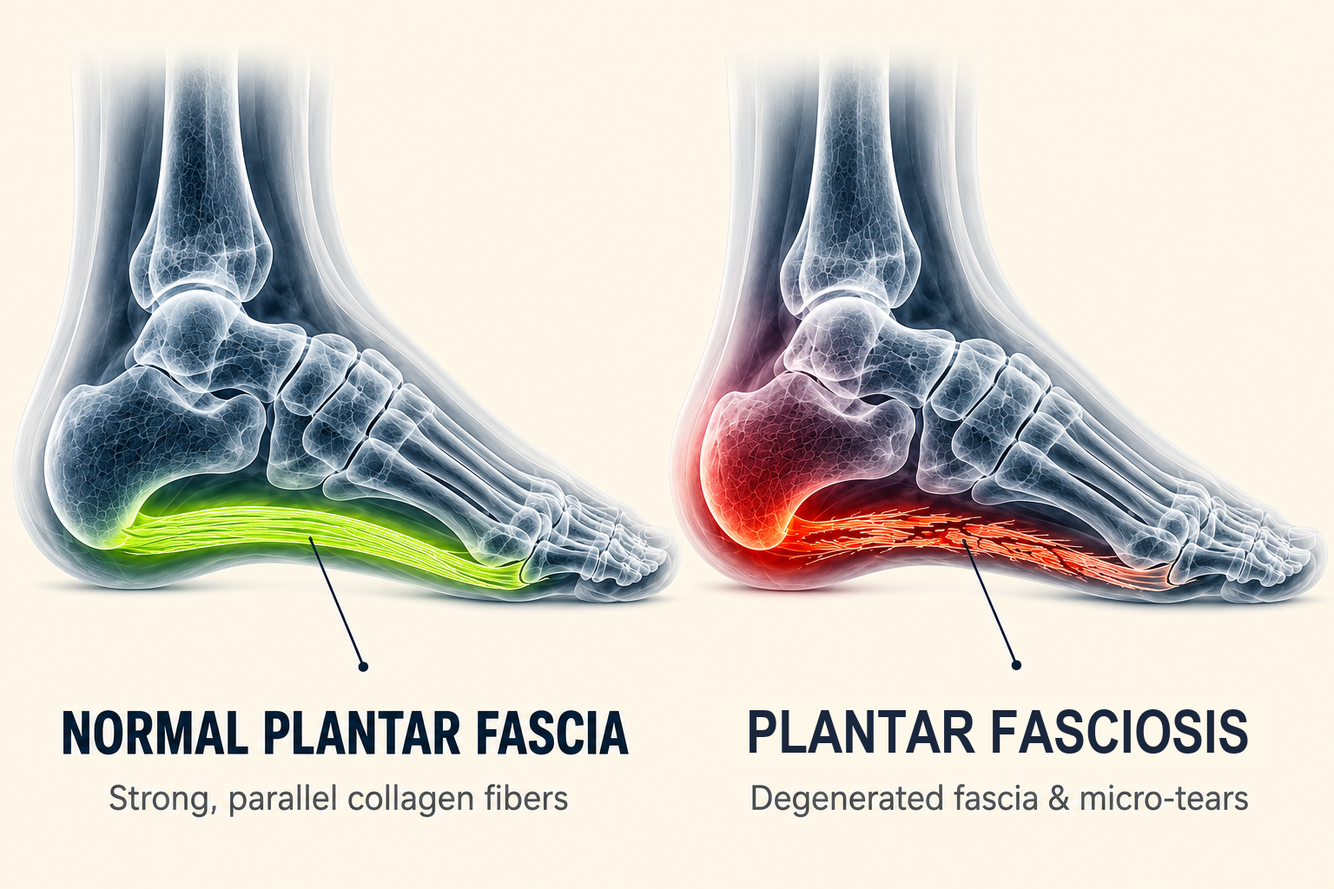
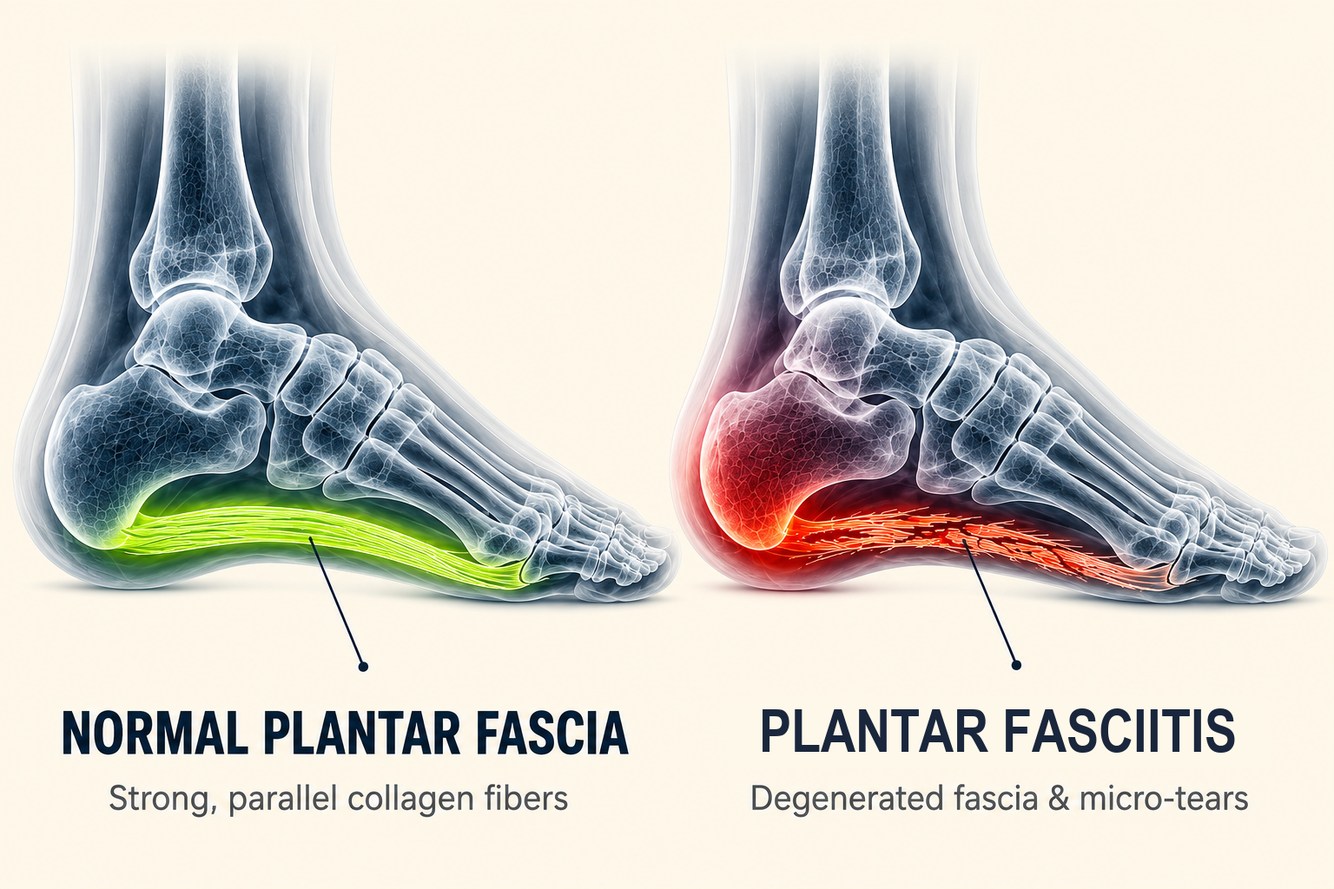
Affirm plantar fasciitis naming; wear-down insight kept as inside-story

Changed region(s): [[0.5625, 0.7812, 0.9375, 0.8438]]

diff --git a/index.html b/index.html
@@ -14848,7 +14848,7 @@ html body #nv-dr-intro .nv-dr-collagen-band .nv-dr-inline-figure, html body #nv-
             since.
           </p></div><div class="nv-dr-body" id="cc-id-AmnnSJP0mRJk"><div class="nv-dr-intro-copy-block" id="cc-id-TrUfjXdn1l7B"><div class="nv-dr-copy" id="cc-id-oTnw80kfMrIX" spellcheck="false"><p>Dear friend with aching heels - if you're a woman past 50 and you're reading this because you dread that first step out of bed.</p><p>If your heel feels like broken glass the second your foot hits the floor. If you hate that first-step wince - and the confidence it stole from you.</p><p>If you feel "modern medicine" doesn't really care about helping you. If you hope another cortisone shot isn't your only option.</p><p>If you're skeptical of orthotics that cost hundreds and still don't fix it, or tingling creams that quit in an hour.</p><p>That's for you - yes, you're in the right place.</p></div></div><div class="nv-dr-footer-band nv-dr-collagen-band" id="cc-id-jZnOq8dXOKjL"><div class="nv-dr-footer-band-inner" id="cc-id-oJRcnmqNkS62"><h3 class="nv-dr-emphasis" id="cc-id-uLxbVdTJbJlt" spellcheck="false">
                 What the Hell Happened to My Feet? It Came On So Fast
-              </h3><div class="nv-dr-text-img nv-dr-text-img--reverse" id="cc-id-MOjG79z8QDbd"><div class="nv-dr-copy" id="cc-id-oJLkDfDEPJca"><p>Did your feet feel fine in your 40s - then almost overnight after 50, the heel pain started?</p><p>The stab with your first step. The nightstand grab. The shoes beside the bed so you never walk barefoot.</p><p>It's not your fault, and it's not "just aging."</p><p>After 50, your body loses the collagen that keeps tissue springy - and the band under your foot dries out.</p><p>Your body answers with inflammation - and the band slowly frays into tiny tears that never get to finish healing.</p><p>Doctors have a newer name for it: not fasciitis, but fasciosis - a band wearing down faster than it can repair.</p><p><b>It's not three different problems. It's one - and it started when that band began to dry out.</b></p></div><figure class="nv-dr-inline-figure" aria-label="Collagen starvation skin comparison" id="cc-id-jgCbfFdDg7Lw"><figure class="nv-dr-video-figure" aria-label="How the roller reaches the starving layer" id="cc-id-f5wbsM0H0sJK"><img class="nv-dr-video fk-disable-lazy" src="mini-adv-assets/3.png" id="cc-id-h05C5xpjhjaX" style="width: 100%; height: auto;"></figure></figure></div></div></div><div class="nv-dr-added-band nv-dr-surface-band" id="cc-id-qDdnLOLDG1N0"><h3 class="nv-dr-emphasis" id="cc-id-zoeuRUHyW2lN" spellcheck="false">
+              </h3><div class="nv-dr-text-img nv-dr-text-img--reverse" id="cc-id-MOjG79z8QDbd"><div class="nv-dr-copy" id="cc-id-oJLkDfDEPJca"><p>Did your feet feel fine in your 40s - then almost overnight after 50, the heel pain started?</p><p>The stab with your first step. The nightstand grab. The shoes beside the bed so you never walk barefoot.</p><p>It's not your fault, and it's not "just aging."</p><p>After 50, your body loses the collagen that keeps tissue springy - and the band under your foot dries out.</p><p>Your body answers with inflammation - and the band slowly frays into tiny tears that never get to finish healing.</p><p>Doctors call it plantar fasciitis - but here's what's really happening inside: a band wearing down faster than it can repair.</p><p><b>It's not three different problems. It's one - and it started when that band began to dry out.</b></p></div><figure class="nv-dr-inline-figure" aria-label="Collagen starvation skin comparison" id="cc-id-jgCbfFdDg7Lw"><figure class="nv-dr-video-figure" aria-label="How the roller reaches the starving layer" id="cc-id-f5wbsM0H0sJK"><img class="nv-dr-video fk-disable-lazy" src="mini-adv-assets/3.png" id="cc-id-h05C5xpjhjaX" style="width: 100%; height: auto;"></figure></figure></div></div></div><div class="nv-dr-added-band nv-dr-surface-band" id="cc-id-qDdnLOLDG1N0"><h3 class="nv-dr-emphasis" id="cc-id-zoeuRUHyW2lN" spellcheck="false">
               Cortisone Shots, Arch Supports, Compression Socks - Why None of Them Ever Worked for Your Feet
             </h3><div class="nv-dr-text-img nv-dr-text-img--reverse" id="cc-id-r4UL7nXbFBpK"><figure class="nv-dr-video-figure" aria-label="How the roller reaches the starving layer" id="cc-id-Mr5Y9Lj4tBLM"><img class="fk-disable-lazy nv-dr-inline-img" src="mini-adv-assets/7.png" alt="Shots, supports, and socks cannot reach the dried-out band under the foot" id="cc-id-cp7sTisKf0Tn" style="width: 100%; height: auto; border-radius: 10px;"></figure><div class="nv-dr-copy" id="cc-id-pjpHYFf8Bsio" spellcheck="false"><p>You dreaded that needle for weeks. The relief lasted about as long as the drive home.</p><p>Built to calm the pain for an afternoon - never built to reach the band underneath.</p><p>Passive arch supports - even the $400 custom kind - only prop your arch from the outside.</p><p>Take them off, and the band underneath is exactly as dry and frayed as before.</p><p>Insoles and compression socks pile up in a drawer. One never fit, one pinched, one your toes couldn't even get into.</p><p>Padding over a stone doesn't remove the stone - it's still there, waiting for your next step.</p><p><b>None of them reach the band under your foot with real botanical support. And none touch the real cause - the inflammation that started when that band began to dry out.</b></p></div></div></div><div class="nv-dr-added-band nv-dr-product-band" id="cc-id-9r6CM5O5BJV6"><h3 class="nv-dr-emphasis" id="cc-id-3TDB3Cqtk3KC" spellcheck="false">
               So We Built One Simple Balm To Calm Persistent Foot Stress
@@ -15042,7 +15042,7 @@ html body #nv-dr-intro .nv-dr-collagen-band .nv-dr-inline-figure, html body #nv-
 
 <br id="cc-id-DHGVWLlYwOEX"></div></div></div></div><div class="fk-row" id="cc-id-WVuzN0XMHcS4"><div class="fk-col col" align="center" id="cc-id-G4grJAVrbNHL"></div></div></div></div></div><div data-box="true" style="padding-right: 10px; padding-bottom: 12px; padding-left: 10px; width: 100%;" id="cc-id-9qhJx9Ho3vub"><div data-box="true" data-secondsdelay="" id="cc-id-7FYgqw6AQf4S" class="contained"><div data-box="true" data-secondsdelay="" id="cc-id-wI9Gu4hW8Z4s" class="contained"><div class="nv-faq" id="cc-id-gJKlE1fHBxjX"><h2 class="nv-faq__heading" id="cc-id-u6NxWQBmapWT">
     Frequently Asked Questions
-  </h2><div class="nv-faq__list" id="cc-id-OfV9TCbDmLLe"><div class="nv-faq__item"><div class="nv-faq__item-inner"><div class="nv-faq__question-row"><h3 class="nv-faq__question"><span class="font-17222EFF cc-rte-styled rte-styled-text">How soon will I feel it?</span></h3><div><svg class="nv-faq__chevron" xmlns="http://www.w3.org/2000/svg" width="24" height="24" viewBox="0 0 24 25" fill="none"><path d="M12.0021 8.58771C11.8705 8.58694 11.7401 8.61217 11.6182 8.66193C11.4964 8.7117 11.3856 8.78502 11.2921 8.87771L5.29214 14.8777C5.10383 15.066 4.99805 15.3214 4.99805 15.5877C4.99805 15.854 5.10383 16.1094 5.29214 16.2977C5.48044 16.486 5.73584 16.5918 6.00214 16.5918C6.26844 16.5918 6.52383 16.486 6.71214 16.2977L12.0021 10.9977L17.2921 16.2877C17.4834 16.4515 17.7295 16.5371 17.9812 16.5274C18.2329 16.5177 18.4716 16.4134 18.6497 16.2353C18.8278 16.0572 18.9321 15.8184 18.9418 15.5668C18.9516 15.3151 18.866 15.069 18.7021 14.8777L12.7021 8.87771C12.5159 8.69296 12.2645 8.58881 12.0021 8.58771Z" fill="#404040"></path></svg></div></div><p class="nv-faq__answer"><span class="nv-faq__answer-text">Two clocks. The cool is tonight &mdash; you don&rsquo;t have to take our word for that one. The second is slower, and here&rsquo;s how to watch it: don&rsquo;t count how much better you feel. Count how many steps land before that first jolt. That number is what grows.</span></p></div></div><div class="nv-faq__item"><div class="nv-faq__item-inner"><div class="nv-faq__question-row"><h3 class="nv-faq__question"><span class="font-17222EFF cc-rte-styled rte-styled-text">My doctor says it&rsquo;s just my age. Is that all this is?</span></h3><div><svg class="nv-faq__chevron" xmlns="http://www.w3.org/2000/svg" width="24" height="24" viewBox="0 0 24 25" fill="none"><path d="M12.0021 8.58771C11.8705 8.58694 11.7401 8.61217 11.6182 8.66193C11.4964 8.7117 11.3856 8.78502 11.2921 8.87771L5.29214 14.8777C5.10383 15.066 4.99805 15.3214 4.99805 15.5877C4.99805 15.854 5.10383 16.1094 5.29214 16.2977C5.48044 16.486 5.73584 16.5918 6.00214 16.5918C6.26844 16.5918 6.52383 16.486 6.71214 16.2977L12.0021 10.9977L17.2921 16.2877C17.4834 16.4515 17.7295 16.5371 17.9812 16.5274C18.2329 16.5177 18.4716 16.4134 18.6497 16.2353C18.8278 16.0572 18.9321 15.8184 18.9418 15.5668C18.9516 15.3151 18.866 15.069 18.7021 14.8777L12.7021 8.87771C12.5159 8.69296 12.2645 8.58881 12.0021 8.58771Z" fill="#404040"></path></svg></div></div><p class="nv-faq__answer"><span class="nv-faq__answer-text">Here&rsquo;s the part that doesn&rsquo;t fit age. Getting old takes decades. This took you a few years. And it didn&rsquo;t spread through your whole foot &mdash; it picked the one spot that takes your weight with every step. Doctors have a name for that: fasciosis, not fasciitis. A band wearing down faster than it can repair.</span></p></div></div><div class="nv-faq__item"><div class="nv-faq__item-inner"><div class="nv-faq__question-row"><h3 class="nv-faq__question"><span class="font-17222EFF cc-rte-styled rte-styled-text">I&rsquo;ve tried everything. Why would this be any different?</span></h3><div><svg class="nv-faq__chevron" xmlns="http://www.w3.org/2000/svg" width="24" height="24" viewBox="0 0 24 25" fill="none"><path d="M12.0021 8.58771C11.8705 8.58694 11.7401 8.61217 11.6182 8.66193C11.4964 8.7117 11.3856 8.78502 11.2921 8.87771L5.29214 14.8777C5.10383 15.066 4.99805 15.3214 4.99805 15.5877C4.99805 15.854 5.10383 16.1094 5.29214 16.2977C5.48044 16.486 5.73584 16.5918 6.00214 16.5918C6.26844 16.5918 6.52383 16.486 6.71214 16.2977L12.0021 10.9977L17.2921 16.2877C17.4834 16.4515 17.7295 16.5371 17.9812 16.5274C18.2329 16.5177 18.4716 16.4134 18.6497 16.2353C18.8278 16.0572 18.9321 15.8184 18.9418 15.5668C18.9516 15.3151 18.866 15.069 18.7021 14.8777L12.7021 8.87771C12.5159 8.69296 12.2645 8.58881 12.0021 8.58771Z" fill="#404040"></path></svg></div></div><p class="nv-faq__answer"><span class="nv-faq__answer-text">You have every reason to ask. Here is the difference, and it is not a promise. Everything in that drawer was made for pain in general &mdash; anybody&rsquo;s back, anybody&rsquo;s knee, any age. This was made for the reason yours started, and it goes on the spot and stays there.</span></p></div></div><div class="nv-faq__item"><div class="nv-faq__item-inner"><div class="nv-faq__question-row"><h3 class="nv-faq__question"><span class="font-17222EFF cc-rte-styled rte-styled-text">Will it burn like the others did?</span></h3><div><svg class="nv-faq__chevron" xmlns="http://www.w3.org/2000/svg" width="24" height="24" viewBox="0 0 24 25" fill="none"><path d="M12.0021 8.58771C11.8705 8.58694 11.7401 8.61217 11.6182 8.66193C11.4964 8.7117 11.3856 8.78502 11.2921 8.87771L5.29214 14.8777C5.10383 15.066 4.99805 15.3214 4.99805 15.5877C4.99805 15.854 5.10383 16.1094 5.29214 16.2977C5.48044 16.486 5.73584 16.5918 6.00214 16.5918C6.26844 16.5918 6.52383 16.486 6.71214 16.2977L12.0021 10.9977L17.2921 16.2877C17.4834 16.4515 17.7295 16.5371 17.9812 16.5274C18.2329 16.5177 18.4716 16.4134 18.6497 16.2353C18.8278 16.0572 18.9321 15.8184 18.9418 15.5668C18.9516 15.3151 18.866 15.069 18.7021 14.8777L12.7021 8.87771C12.5159 8.69296 12.2645 8.58881 12.0021 8.58771Z" fill="#404040"></path></svg></div></div><p class="nv-faq__answer"><span class="nv-faq__answer-text">No. What you&rsquo;ll feel is a cool, and it eases off after a few minutes. That part throws people. Every cream before this taught you that when the cool goes, it&rsquo;s over &mdash; here the cool was only the door opening. What went in behind it is still on that spot.</span></p></div></div><div class="nv-faq__item"><div class="nv-faq__item-inner"><div class="nv-faq__question-row"><h3 class="nv-faq__question"><span class="font-17222EFF cc-rte-styled rte-styled-text">Is it safe with the pills I already take?</span></h3><div><svg class="nv-faq__chevron" xmlns="http://www.w3.org/2000/svg" width="24" height="24" viewBox="0 0 24 25" fill="none"><path d="M12.0021 8.58771C11.8705 8.58694 11.7401 8.61217 11.6182 8.66193C11.4964 8.7117 11.3856 8.78502 11.2921 8.87771L5.29214 14.8777C5.10383 15.066 4.99805 15.3214 4.99805 15.5877C4.99805 15.854 5.10383 16.1094 5.29214 16.2977C5.48044 16.486 5.73584 16.5918 6.00214 16.5918C6.26844 16.5918 6.52383 16.486 6.71214 16.2977L12.0021 10.9977L17.2921 16.2877C17.4834 16.4515 17.7295 16.5371 17.9812 16.5274C18.2329 16.5177 18.4716 16.4134 18.6497 16.2353C18.8278 16.0572 18.9321 15.8184 18.9418 15.5668C18.9516 15.3151 18.866 15.069 18.7021 14.8777L12.7021 8.87771C12.5159 8.69296 12.2645 8.58881 12.0021 8.58771Z" fill="#404040"></path></svg></div></div><p class="nv-faq__answer"><span class="nv-faq__answer-text">Nothing is swallowed. It goes on the skin, and you give up nothing you already take. It contains arnica: ask your doctor first if you take blood thinners, or if ragweed bothers you. Keep it off broken skin and out of your eyes. Not while pregnant or nursing.</span></p></div></div><div class="nv-faq__item"><div class="nv-faq__item-inner"><div class="nv-faq__question-row"><h3 class="nv-faq__question"><span class="font-17222EFF cc-rte-styled rte-styled-text">My hands are stiff. How do I rub it in?</span></h3><div><svg class="nv-faq__chevron" xmlns="http://www.w3.org/2000/svg" width="24" height="24" viewBox="0 0 24 25" fill="none"><path d="M12.0021 8.58771C11.8705 8.58694 11.7401 8.61217 11.6182 8.66193C11.4964 8.7117 11.3856 8.78502 11.2921 8.87771L5.29214 14.8777C5.10383 15.066 4.99805 15.3214 4.99805 15.5877C4.99805 15.854 5.10383 16.1094 5.29214 16.2977C5.48044 16.486 5.73584 16.5918 6.00214 16.5918C6.26844 16.5918 6.52383 16.486 6.71214 16.2977L12.0021 10.9977L17.2921 16.2877C17.4834 16.4515 17.7295 16.5371 17.9812 16.5274C18.2329 16.5177 18.4716 16.4134 18.6497 16.2353C18.8278 16.0572 18.9321 15.8184 18.9418 15.5668C18.9516 15.3151 18.866 15.069 18.7021 14.8777L12.7021 8.87771C12.5159 8.69296 12.2645 8.58881 12.0021 8.58771Z" fill="#404040"></path></svg></div></div><p class="nv-faq__answer"><span class="nv-faq__answer-text">We will not pretend otherwise: this one gets rubbed in. But you are not gripping anything. Two fingers, or the flat of your hand, thirty seconds. Prop the foot on your opposite knee &mdash; rubbing a heel needs no grip. And it is a small enough job to hand to someone before bed.</span></p></div></div><div class="nv-faq__item"><div class="nv-faq__item-inner"><div class="nv-faq__question-row"><h3 class="nv-faq__question"><span class="font-17222EFF cc-rte-styled rte-styled-text">Can I buy this on Amazon or in stores?</span></h3><div><svg class="nv-faq__chevron" xmlns="http://www.w3.org/2000/svg" width="24" height="24" viewBox="0 0 24 25" fill="none"><path d="M12.0021 8.58771C11.8705 8.58694 11.7401 8.61217 11.6182 8.66193C11.4964 8.7117 11.3856 8.78502 11.2921 8.87771L5.29214 14.8777C5.10383 15.066 4.99805 15.3214 4.99805 15.5877C4.99805 15.854 5.10383 16.1094 5.29214 16.2977C5.48044 16.486 5.73584 16.5918 6.00214 16.5918C6.26844 16.5918 6.52383 16.486 6.71214 16.2977L12.0021 10.9977L17.2921 16.2877C17.4834 16.4515 17.7295 16.5371 17.9812 16.5274C18.2329 16.5177 18.4716 16.4134 18.6497 16.2353C18.8278 16.0572 18.9321 15.8184 18.9418 15.5668C18.9516 15.3151 18.866 15.069 18.7021 14.8777L12.7021 8.87771C12.5159 8.69296 12.2645 8.58881 12.0021 8.58771Z" fill="#404040"></path></svg></div></div><p class="nv-faq__answer"><span class="nv-faq__answer-text">No &mdash; only here. That&rsquo;s the only place you get the real jar, sealed, with the 90 days behind it. The Amazon look-alikes are not ours, and we can&rsquo;t stand behind them.</span></p></div></div><div class="nv-faq__item"><div class="nv-faq__item-inner"><div class="nv-faq__question-row"><h3 class="nv-faq__question"><span class="font-17222EFF cc-rte-styled rte-styled-text">How long does shipping take?</span></h3><div><svg class="nv-faq__chevron" xmlns="http://www.w3.org/2000/svg" width="24" height="24" viewBox="0 0 24 25" fill="none"><path d="M12.0021 8.58771C11.8705 8.58694 11.7401 8.61217 11.6182 8.66193C11.4964 8.7117 11.3856 8.78502 11.2921 8.87771L5.29214 14.8777C5.10383 15.066 4.99805 15.3214 4.99805 15.5877C4.99805 15.854 5.10383 16.1094 5.29214 16.2977C5.48044 16.486 5.73584 16.5918 6.00214 16.5918C6.26844 16.5918 6.52383 16.486 6.71214 16.2977L12.0021 10.9977L17.2921 16.2877C17.4834 16.4515 17.7295 16.5371 17.9812 16.5274C18.2329 16.5177 18.4716 16.4134 18.6497 16.2353C18.8278 16.0572 18.9321 15.8184 18.9418 15.5668C18.9516 15.3151 18.866 15.069 18.7021 14.8777L12.7021 8.87771C12.5159 8.69296 12.2645 8.58881 12.0021 8.58771Z" fill="#404040"></path></svg></div></div><p class="nv-faq__answer"><span class="nv-faq__answer-text">Shipping is free. Most orders reach your door in 4 to 7 business days from the day you order. Your tracking link is emailed the moment it ships.</span></p></div></div><div class="nv-faq__item"><div class="nv-faq__item-inner"><div class="nv-faq__question-row"><h3 class="nv-faq__question"><span class="font-17222EFF cc-rte-styled rte-styled-text">What if it doesn&rsquo;t work for me?</span></h3><div><svg class="nv-faq__chevron" xmlns="http://www.w3.org/2000/svg" width="24" height="24" viewBox="0 0 24 25" fill="none"><path d="M12.0021 8.58771C11.8705 8.58694 11.7401 8.61217 11.6182 8.66193C11.4964 8.7117 11.3856 8.78502 11.2921 8.87771L5.29214 14.8777C5.10383 15.066 4.99805 15.3214 4.99805 15.5877C4.99805 15.854 5.10383 16.1094 5.29214 16.2977C5.48044 16.486 5.73584 16.5918 6.00214 16.5918C6.26844 16.5918 6.52383 16.486 6.71214 16.2977L12.0021 10.9977L17.2921 16.2877C17.4834 16.4515 17.7295 16.5371 17.9812 16.5274C18.2329 16.5177 18.4716 16.4134 18.6497 16.2353C18.8278 16.0572 18.9321 15.8184 18.9418 15.5668C18.9516 15.3151 18.866 15.069 18.7021 14.8777L12.7021 8.87771C12.5159 8.69296 12.2645 8.58881 12.0021 8.58771Z" fill="#404040"></path></svg></div></div><p class="nv-faq__answer"><span class="nv-faq__answer-text">Then you don&rsquo;t pay. Ninety days, counted from the day it reaches your door &mdash; long enough to run both clocks and feel your first steps land soft again. If you&rsquo;re not glad you tried it, we refund every penny, even if the jar is empty.</span></p></div></div></div></div></div></div><div data-box="true" style="padding-right: 10px; padding-left: 10px; width: 100%;" id="cc-id-N09WEWIQxb66" align="right"><div data-box="true" data-secondsdelay="" id="cc-id-swGo7vu1lfh3" class="contained"><div data-text="text" data-secondsdelay="" id="cc-id-pG8y2YDNnVuy"><div data-text="text" data-secondsdelay="" id="cc-id-fLbAgmRTiPHI" style=""><div class="rte-styled-text" id="cc-id-A3Dlxj1b2V0y"><p id="cc-id-8sr0klEQB1On" class="rte-styled-text"><span id="cc-id-zHmEtKmkUciH" class="rte-styled-text"><span class="font-000000FF cc-rte-styled rte-styled-text" id="cc-id-C3scQkdekg30" style="">100% SATISFACTION</span></span></p><p id="cc-id-zI34ls3nSOip" class="rte-styled-text"><span id="cc-id-kMm1eM6CV3IG" class="rte-styled-text"><span class="font-000000FF cc-rte-styled rte-styled-text" id="cc-id-h6qqBmzSKH3V" style="">90-DAY &ldquo;FOOT COMFORT&rdquo; GUARANTEE</span></span></p></div></div></div><div data-secondsdelay="" id="cc-id-eBRz0mMtSUnX" class="fk-row"><div align="center" data-secondsdelay="" id="cc-id-HZ915A5ahqYV" class="fk-col col"><img src="https://assets.imagehub.io/dc45bbf0-81eb-11ef-a2da-133f014b1a7b/1761545262308_1755685014675_13.png" title="" target="_blank" href="" onclick="" id="cc-id-txmBtQO42Ddy" class="fk-icon fk-disable-lazy disable-fk-lazy"><div data-text="text" data-secondsdelay="" id="cc-id-I7CXAs3N4Jhn"><div data-text="text" data-secondsdelay="" id="cc-id-C6Rm7x2YG2KD"><div style="text-align: center !important;" id="cc-id-v1Ka0PndrWIU" data-layer-name="Text"><div class="rte-styled-text" id="cc-id-bW6bfQyp1w0r"><p id="cc-id-ImP4CkiXYgq6">
+  </h2><div class="nv-faq__list" id="cc-id-OfV9TCbDmLLe"><div class="nv-faq__item"><div class="nv-faq__item-inner"><div class="nv-faq__question-row"><h3 class="nv-faq__question"><span class="font-17222EFF cc-rte-styled rte-styled-text">How soon will I feel it?</span></h3><div><svg class="nv-faq__chevron" xmlns="http://www.w3.org/2000/svg" width="24" height="24" viewBox="0 0 24 25" fill="none"><path d="M12.0021 8.58771C11.8705 8.58694 11.7401 8.61217 11.6182 8.66193C11.4964 8.7117 11.3856 8.78502 11.2921 8.87771L5.29214 14.8777C5.10383 15.066 4.99805 15.3214 4.99805 15.5877C4.99805 15.854 5.10383 16.1094 5.29214 16.2977C5.48044 16.486 5.73584 16.5918 6.00214 16.5918C6.26844 16.5918 6.52383 16.486 6.71214 16.2977L12.0021 10.9977L17.2921 16.2877C17.4834 16.4515 17.7295 16.5371 17.9812 16.5274C18.2329 16.5177 18.4716 16.4134 18.6497 16.2353C18.8278 16.0572 18.9321 15.8184 18.9418 15.5668C18.9516 15.3151 18.866 15.069 18.7021 14.8777L12.7021 8.87771C12.5159 8.69296 12.2645 8.58881 12.0021 8.58771Z" fill="#404040"></path></svg></div></div><p class="nv-faq__answer"><span class="nv-faq__answer-text">Two clocks. The cool is tonight &mdash; you don&rsquo;t have to take our word for that one. The second is slower, and here&rsquo;s how to watch it: don&rsquo;t count how much better you feel. Count how many steps land before that first jolt. That number is what grows.</span></p></div></div><div class="nv-faq__item"><div class="nv-faq__item-inner"><div class="nv-faq__question-row"><h3 class="nv-faq__question"><span class="font-17222EFF cc-rte-styled rte-styled-text">My doctor says it&rsquo;s just my age. Is that all this is?</span></h3><div><svg class="nv-faq__chevron" xmlns="http://www.w3.org/2000/svg" width="24" height="24" viewBox="0 0 24 25" fill="none"><path d="M12.0021 8.58771C11.8705 8.58694 11.7401 8.61217 11.6182 8.66193C11.4964 8.7117 11.3856 8.78502 11.2921 8.87771L5.29214 14.8777C5.10383 15.066 4.99805 15.3214 4.99805 15.5877C4.99805 15.854 5.10383 16.1094 5.29214 16.2977C5.48044 16.486 5.73584 16.5918 6.00214 16.5918C6.26844 16.5918 6.52383 16.486 6.71214 16.2977L12.0021 10.9977L17.2921 16.2877C17.4834 16.4515 17.7295 16.5371 17.9812 16.5274C18.2329 16.5177 18.4716 16.4134 18.6497 16.2353C18.8278 16.0572 18.9321 15.8184 18.9418 15.5668C18.9516 15.3151 18.866 15.069 18.7021 14.8777L12.7021 8.87771C12.5159 8.69296 12.2645 8.58881 12.0021 8.58771Z" fill="#404040"></path></svg></div></div><p class="nv-faq__answer"><span class="nv-faq__answer-text">Here&rsquo;s the part that doesn&rsquo;t fit age. Getting old takes decades. This took you a few years. And it didn&rsquo;t spread through your whole foot &mdash; it picked the one spot that takes your weight with every step. That's what plantar fasciitis really is underneath: a band wearing down faster than it can repair.</span></p></div></div><div class="nv-faq__item"><div class="nv-faq__item-inner"><div class="nv-faq__question-row"><h3 class="nv-faq__question"><span class="font-17222EFF cc-rte-styled rte-styled-text">I&rsquo;ve tried everything. Why would this be any different?</span></h3><div><svg class="nv-faq__chevron" xmlns="http://www.w3.org/2000/svg" width="24" height="24" viewBox="0 0 24 25" fill="none"><path d="M12.0021 8.58771C11.8705 8.58694 11.7401 8.61217 11.6182 8.66193C11.4964 8.7117 11.3856 8.78502 11.2921 8.87771L5.29214 14.8777C5.10383 15.066 4.99805 15.3214 4.99805 15.5877C4.99805 15.854 5.10383 16.1094 5.29214 16.2977C5.48044 16.486 5.73584 16.5918 6.00214 16.5918C6.26844 16.5918 6.52383 16.486 6.71214 16.2977L12.0021 10.9977L17.2921 16.2877C17.4834 16.4515 17.7295 16.5371 17.9812 16.5274C18.2329 16.5177 18.4716 16.4134 18.6497 16.2353C18.8278 16.0572 18.9321 15.8184 18.9418 15.5668C18.9516 15.3151 18.866 15.069 18.7021 14.8777L12.7021 8.87771C12.5159 8.69296 12.2645 8.58881 12.0021 8.58771Z" fill="#404040"></path></svg></div></div><p class="nv-faq__answer"><span class="nv-faq__answer-text">You have every reason to ask. Here is the difference, and it is not a promise. Everything in that drawer was made for pain in general &mdash; anybody&rsquo;s back, anybody&rsquo;s knee, any age. This was made for the reason yours started, and it goes on the spot and stays there.</span></p></div></div><div class="nv-faq__item"><div class="nv-faq__item-inner"><div class="nv-faq__question-row"><h3 class="nv-faq__question"><span class="font-17222EFF cc-rte-styled rte-styled-text">Will it burn like the others did?</span></h3><div><svg class="nv-faq__chevron" xmlns="http://www.w3.org/2000/svg" width="24" height="24" viewBox="0 0 24 25" fill="none"><path d="M12.0021 8.58771C11.8705 8.58694 11.7401 8.61217 11.6182 8.66193C11.4964 8.7117 11.3856 8.78502 11.2921 8.87771L5.29214 14.8777C5.10383 15.066 4.99805 15.3214 4.99805 15.5877C4.99805 15.854 5.10383 16.1094 5.29214 16.2977C5.48044 16.486 5.73584 16.5918 6.00214 16.5918C6.26844 16.5918 6.52383 16.486 6.71214 16.2977L12.0021 10.9977L17.2921 16.2877C17.4834 16.4515 17.7295 16.5371 17.9812 16.5274C18.2329 16.5177 18.4716 16.4134 18.6497 16.2353C18.8278 16.0572 18.9321 15.8184 18.9418 15.5668C18.9516 15.3151 18.866 15.069 18.7021 14.8777L12.7021 8.87771C12.5159 8.69296 12.2645 8.58881 12.0021 8.58771Z" fill="#404040"></path></svg></div></div><p class="nv-faq__answer"><span class="nv-faq__answer-text">No. What you&rsquo;ll feel is a cool, and it eases off after a few minutes. That part throws people. Every cream before this taught you that when the cool goes, it&rsquo;s over &mdash; here the cool was only the door opening. What went in behind it is still on that spot.</span></p></div></div><div class="nv-faq__item"><div class="nv-faq__item-inner"><div class="nv-faq__question-row"><h3 class="nv-faq__question"><span class="font-17222EFF cc-rte-styled rte-styled-text">Is it safe with the pills I already take?</span></h3><div><svg class="nv-faq__chevron" xmlns="http://www.w3.org/2000/svg" width="24" height="24" viewBox="0 0 24 25" fill="none"><path d="M12.0021 8.58771C11.8705 8.58694 11.7401 8.61217 11.6182 8.66193C11.4964 8.7117 11.3856 8.78502 11.2921 8.87771L5.29214 14.8777C5.10383 15.066 4.99805 15.3214 4.99805 15.5877C4.99805 15.854 5.10383 16.1094 5.29214 16.2977C5.48044 16.486 5.73584 16.5918 6.00214 16.5918C6.26844 16.5918 6.52383 16.486 6.71214 16.2977L12.0021 10.9977L17.2921 16.2877C17.4834 16.4515 17.7295 16.5371 17.9812 16.5274C18.2329 16.5177 18.4716 16.4134 18.6497 16.2353C18.8278 16.0572 18.9321 15.8184 18.9418 15.5668C18.9516 15.3151 18.866 15.069 18.7021 14.8777L12.7021 8.87771C12.5159 8.69296 12.2645 8.58881 12.0021 8.58771Z" fill="#404040"></path></svg></div></div><p class="nv-faq__answer"><span class="nv-faq__answer-text">Nothing is swallowed. It goes on the skin, and you give up nothing you already take. It contains arnica: ask your doctor first if you take blood thinners, or if ragweed bothers you. Keep it off broken skin and out of your eyes. Not while pregnant or nursing.</span></p></div></div><div class="nv-faq__item"><div class="nv-faq__item-inner"><div class="nv-faq__question-row"><h3 class="nv-faq__question"><span class="font-17222EFF cc-rte-styled rte-styled-text">My hands are stiff. How do I rub it in?</span></h3><div><svg class="nv-faq__chevron" xmlns="http://www.w3.org/2000/svg" width="24" height="24" viewBox="0 0 24 25" fill="none"><path d="M12.0021 8.58771C11.8705 8.58694 11.7401 8.61217 11.6182 8.66193C11.4964 8.7117 11.3856 8.78502 11.2921 8.87771L5.29214 14.8777C5.10383 15.066 4.99805 15.3214 4.99805 15.5877C4.99805 15.854 5.10383 16.1094 5.29214 16.2977C5.48044 16.486 5.73584 16.5918 6.00214 16.5918C6.26844 16.5918 6.52383 16.486 6.71214 16.2977L12.0021 10.9977L17.2921 16.2877C17.4834 16.4515 17.7295 16.5371 17.9812 16.5274C18.2329 16.5177 18.4716 16.4134 18.6497 16.2353C18.8278 16.0572 18.9321 15.8184 18.9418 15.5668C18.9516 15.3151 18.866 15.069 18.7021 14.8777L12.7021 8.87771C12.5159 8.69296 12.2645 8.58881 12.0021 8.58771Z" fill="#404040"></path></svg></div></div><p class="nv-faq__answer"><span class="nv-faq__answer-text">We will not pretend otherwise: this one gets rubbed in. But you are not gripping anything. Two fingers, or the flat of your hand, thirty seconds. Prop the foot on your opposite knee &mdash; rubbing a heel needs no grip. And it is a small enough job to hand to someone before bed.</span></p></div></div><div class="nv-faq__item"><div class="nv-faq__item-inner"><div class="nv-faq__question-row"><h3 class="nv-faq__question"><span class="font-17222EFF cc-rte-styled rte-styled-text">Can I buy this on Amazon or in stores?</span></h3><div><svg class="nv-faq__chevron" xmlns="http://www.w3.org/2000/svg" width="24" height="24" viewBox="0 0 24 25" fill="none"><path d="M12.0021 8.58771C11.8705 8.58694 11.7401 8.61217 11.6182 8.66193C11.4964 8.7117 11.3856 8.78502 11.2921 8.87771L5.29214 14.8777C5.10383 15.066 4.99805 15.3214 4.99805 15.5877C4.99805 15.854 5.10383 16.1094 5.29214 16.2977C5.48044 16.486 5.73584 16.5918 6.00214 16.5918C6.26844 16.5918 6.52383 16.486 6.71214 16.2977L12.0021 10.9977L17.2921 16.2877C17.4834 16.4515 17.7295 16.5371 17.9812 16.5274C18.2329 16.5177 18.4716 16.4134 18.6497 16.2353C18.8278 16.0572 18.9321 15.8184 18.9418 15.5668C18.9516 15.3151 18.866 15.069 18.7021 14.8777L12.7021 8.87771C12.5159 8.69296 12.2645 8.58881 12.0021 8.58771Z" fill="#404040"></path></svg></div></div><p class="nv-faq__answer"><span class="nv-faq__answer-text">No &mdash; only here. That&rsquo;s the only place you get the real jar, sealed, with the 90 days behind it. The Amazon look-alikes are not ours, and we can&rsquo;t stand behind them.</span></p></div></div><div class="nv-faq__item"><div class="nv-faq__item-inner"><div class="nv-faq__question-row"><h3 class="nv-faq__question"><span class="font-17222EFF cc-rte-styled rte-styled-text">How long does shipping take?</span></h3><div><svg class="nv-faq__chevron" xmlns="http://www.w3.org/2000/svg" width="24" height="24" viewBox="0 0 24 25" fill="none"><path d="M12.0021 8.58771C11.8705 8.58694 11.7401 8.61217 11.6182 8.66193C11.4964 8.7117 11.3856 8.78502 11.2921 8.87771L5.29214 14.8777C5.10383 15.066 4.99805 15.3214 4.99805 15.5877C4.99805 15.854 5.10383 16.1094 5.29214 16.2977C5.48044 16.486 5.73584 16.5918 6.00214 16.5918C6.26844 16.5918 6.52383 16.486 6.71214 16.2977L12.0021 10.9977L17.2921 16.2877C17.4834 16.4515 17.7295 16.5371 17.9812 16.5274C18.2329 16.5177 18.4716 16.4134 18.6497 16.2353C18.8278 16.0572 18.9321 15.8184 18.9418 15.5668C18.9516 15.3151 18.866 15.069 18.7021 14.8777L12.7021 8.87771C12.5159 8.69296 12.2645 8.58881 12.0021 8.58771Z" fill="#404040"></path></svg></div></div><p class="nv-faq__answer"><span class="nv-faq__answer-text">Shipping is free. Most orders reach your door in 4 to 7 business days from the day you order. Your tracking link is emailed the moment it ships.</span></p></div></div><div class="nv-faq__item"><div class="nv-faq__item-inner"><div class="nv-faq__question-row"><h3 class="nv-faq__question"><span class="font-17222EFF cc-rte-styled rte-styled-text">What if it doesn&rsquo;t work for me?</span></h3><div><svg class="nv-faq__chevron" xmlns="http://www.w3.org/2000/svg" width="24" height="24" viewBox="0 0 24 25" fill="none"><path d="M12.0021 8.58771C11.8705 8.58694 11.7401 8.61217 11.6182 8.66193C11.4964 8.7117 11.3856 8.78502 11.2921 8.87771L5.29214 14.8777C5.10383 15.066 4.99805 15.3214 4.99805 15.5877C4.99805 15.854 5.10383 16.1094 5.29214 16.2977C5.48044 16.486 5.73584 16.5918 6.00214 16.5918C6.26844 16.5918 6.52383 16.486 6.71214 16.2977L12.0021 10.9977L17.2921 16.2877C17.4834 16.4515 17.7295 16.5371 17.9812 16.5274C18.2329 16.5177 18.4716 16.4134 18.6497 16.2353C18.8278 16.0572 18.9321 15.8184 18.9418 15.5668C18.9516 15.3151 18.866 15.069 18.7021 14.8777L12.7021 8.87771C12.5159 8.69296 12.2645 8.58881 12.0021 8.58771Z" fill="#404040"></path></svg></div></div><p class="nv-faq__answer"><span class="nv-faq__answer-text">Then you don&rsquo;t pay. Ninety days, counted from the day it reaches your door &mdash; long enough to run both clocks and feel your first steps land soft again. If you&rsquo;re not glad you tried it, we refund every penny, even if the jar is empty.</span></p></div></div></div></div></div></div><div data-box="true" style="padding-right: 10px; padding-left: 10px; width: 100%;" id="cc-id-N09WEWIQxb66" align="right"><div data-box="true" data-secondsdelay="" id="cc-id-swGo7vu1lfh3" class="contained"><div data-text="text" data-secondsdelay="" id="cc-id-pG8y2YDNnVuy"><div data-text="text" data-secondsdelay="" id="cc-id-fLbAgmRTiPHI" style=""><div class="rte-styled-text" id="cc-id-A3Dlxj1b2V0y"><p id="cc-id-8sr0klEQB1On" class="rte-styled-text"><span id="cc-id-zHmEtKmkUciH" class="rte-styled-text"><span class="font-000000FF cc-rte-styled rte-styled-text" id="cc-id-C3scQkdekg30" style="">100% SATISFACTION</span></span></p><p id="cc-id-zI34ls3nSOip" class="rte-styled-text"><span id="cc-id-kMm1eM6CV3IG" class="rte-styled-text"><span class="font-000000FF cc-rte-styled rte-styled-text" id="cc-id-h6qqBmzSKH3V" style="">90-DAY &ldquo;FOOT COMFORT&rdquo; GUARANTEE</span></span></p></div></div></div><div data-secondsdelay="" id="cc-id-eBRz0mMtSUnX" class="fk-row"><div align="center" data-secondsdelay="" id="cc-id-HZ915A5ahqYV" class="fk-col col"><img src="https://assets.imagehub.io/dc45bbf0-81eb-11ef-a2da-133f014b1a7b/1761545262308_1755685014675_13.png" title="" target="_blank" href="" onclick="" id="cc-id-txmBtQO42Ddy" class="fk-icon fk-disable-lazy disable-fk-lazy"><div data-text="text" data-secondsdelay="" id="cc-id-I7CXAs3N4Jhn"><div data-text="text" data-secondsdelay="" id="cc-id-C6Rm7x2YG2KD"><div style="text-align: center !important;" id="cc-id-v1Ka0PndrWIU" data-layer-name="Text"><div class="rte-styled-text" id="cc-id-bW6bfQyp1w0r"><p id="cc-id-ImP4CkiXYgq6">
                               So here&rsquo;s our deal. You&rsquo;re not saying yes today &mdash; only maybe.
                             </p><p id="cc-id-ImP4CkiXYgq6"><br id="cc-id-pFxrICCdyq4A"></p><p id="cc-id-Y6aC613VzXbK">
                               And your maybe gets a full 90 days. If the first step out of bed still makes you wince, if you still keep shoes beside the bed, if hour eight still ends in a limp &mdash; one email, and your money comes back.
